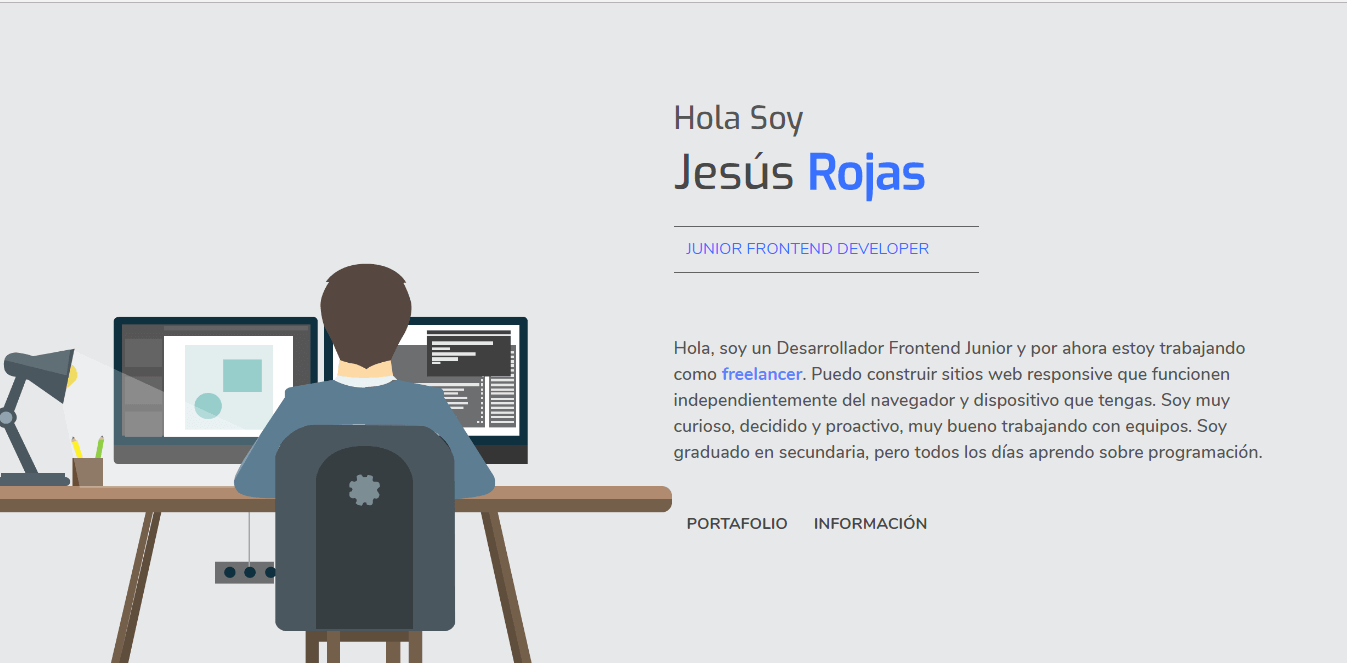
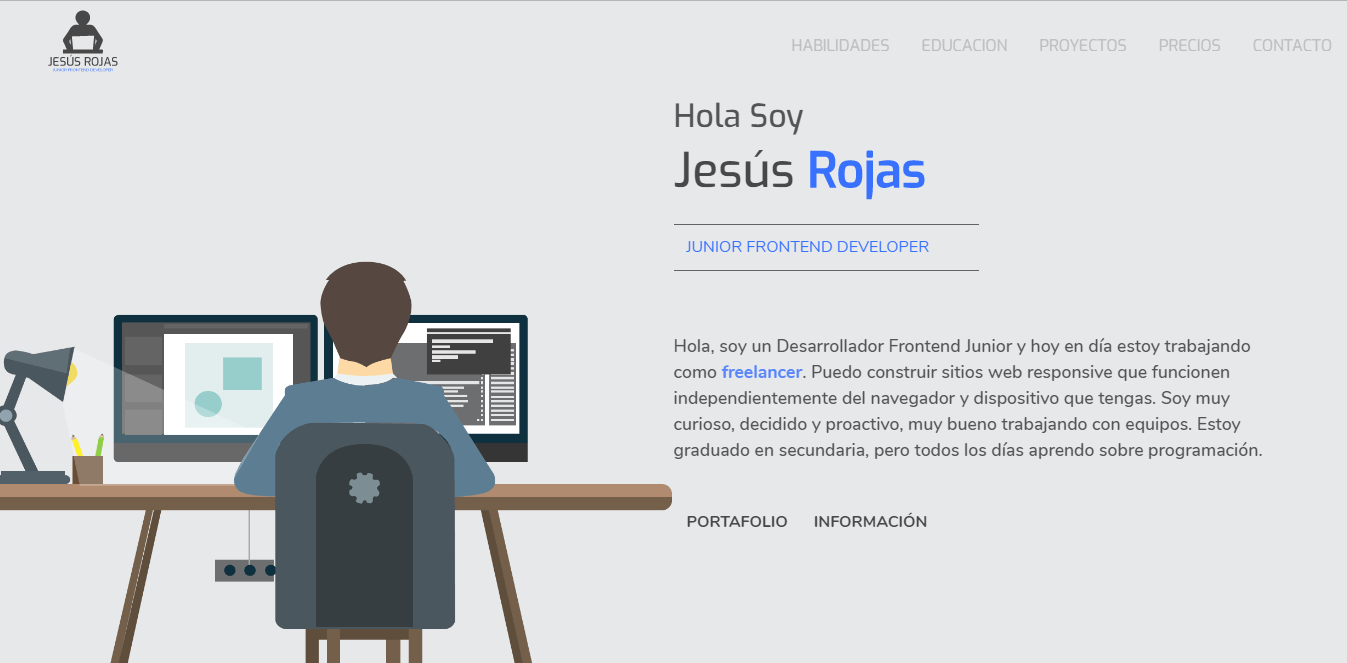
Empezando a poner datos

diff --git a/index.html b/index.html
@@ -129,8 +129,8 @@
         <div class="JesusPortafolio-item-head"><a href=""><img src="img/mi-pagina.png" alt="proyecto"/>
             <div class="JesusPortafolio-item-head-hover"><span class="fa fa-search"></span></div></a></div>
         <div class="JesusPortafolio-item-footer">
-          <h3 class="JesusPortafolio-item-footer-title"> Lorem ipsum dolor.</h3>
-          <p class="JesusPortafolio-item-footer-description"> Lorem ipsum dolor sit amet, consectetur adipisicing elit. Consequuntur, saepe.</p>
+          <h3 class="JesusPortafolio-item-footer-title"> Mi pagina web.</h3>
+          <p class="JesusPortafolio-item-footer-description"> Esta es la pagina web profesional de mi persona.</p>
         </div>
       </div>
       <div class="JesusPortafolio-item u-Grid-column">

diff --git a/css/estilos.css b/css/estilos.css
@@ -68,6 +68,10 @@
 
 				}
 
+.JesusHero-header-navbar-menu-item:last-child{
+						display: none;
+					}
+
 .JesusHero-header-navbar-menu-item a{
 						color: #bdbdbd;
 						padding: 1em;

diff --git a/postcss-cssnext/estilos.css b/postcss-cssnext/estilos.css
@@ -51,6 +51,9 @@
 				list-style: none;
 				&-item{ 
 					padding: 2em 0;
+					&:last-child{
+						display: none;
+					}
 					a{
 						color: #bdbdbd;
 						padding: 1em;
